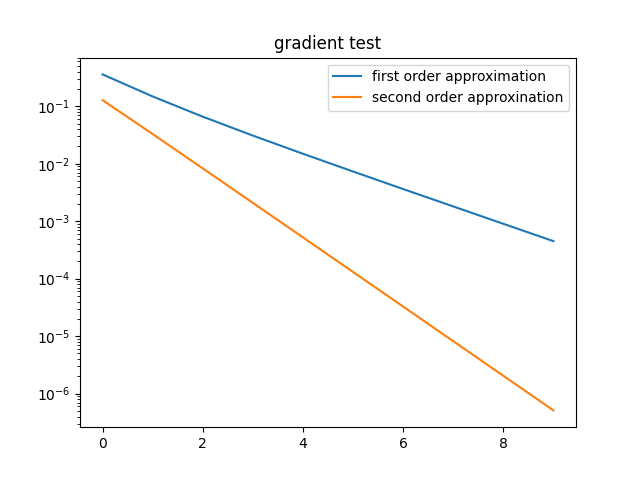
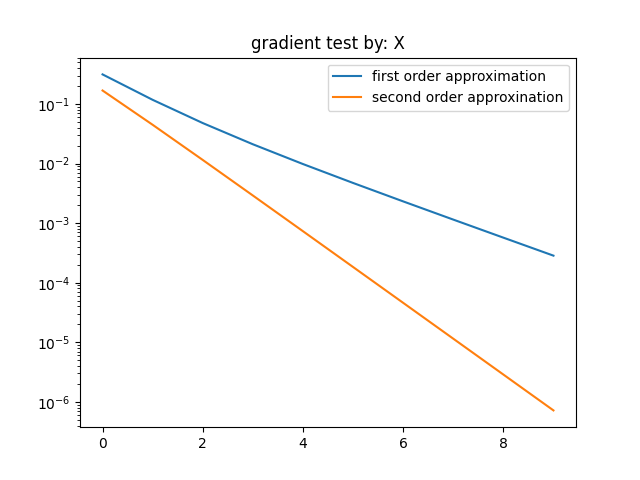
end of 6/7

diff --git a/util.py b/util.py
@@ -55,15 +55,10 @@ def soft_max_loss(X, W, C):
 def soft_max_regression_grad_by_theta(X, W, C):
     m = X.shape[1]
     Z = X.T @ W.T  # Compute logits
-    print(f"Z.shape:{Z.shape}")
-    # softmax = np.exp(
-    #     Z) / (np.sum(np.exp(X.T @ W[j, :]) for j in range(W.shape[0])))[:, None]
     softmax = stable_softmax(Z)
-    print(f"softmax.shape: {softmax.shape}")
-    dL_dZ = (softmax - C) / m
-    grad = X @ dL_dZ
-    print(f"grad.shape: {grad.shape}")
-    return grad
+    dL_dZ = (softmax - C) 
+    grad= (X @ dL_dZ).T
+    return grad / m
 
 # Softmax Gradient with respect to X
 
@@ -71,12 +66,34 @@ def soft_max_regression_grad_by_theta(X, W, C):
 def soft_max_regression_grad_by_x(X, W, C):
     m = X.shape[1]
     Z = X.T @ W.T  # Compute logits
-    # softmax = np.exp(
-    #     Z) / (np.sum(np.exp(X.T @ W[j, :]) for j in range(W.shape[0])))[:, None]
     softmax = stable_softmax(Z)
     dL_dZ = (softmax - C) / m
     dL_dX = W.T @ dL_dZ.T
     return dL_dX
+
+activation_function = np.tanh
+output_layer_function = soft_max_loss
+activation_function_derivative = tanh_derivative
+
+def f_standart_layer(X, W):
+    X = np.concatenate([X, np.ones((1, X.shape[1]))], axis=0)
+    print(f"X.shape: {X.shape}")
+    print(f"W.shape: {W.shape}")
+    return activation_function(W @ X)
+
+def Jac_f_by_x(X, W, V):
+    X = np.concatenate([X, np.ones((1, X.shape[1]))], axis=0)
+    Z = activation_function_derivative(W @ X)
+    A = (Z * V)
+    return (W.T @ A).T
+
+def Jac_f_by_theta(X, W, V):
+    X = np.concatenate([X, np.ones((1, X.shape[1]))], axis=0)
+
+
+    Z = activation_function_derivative(W @ X)
+    A = (Z * V)
+    return (A @ X.T).T
 
 
 def gradient_test(F, grad_F, X_shape, W_shape, C_shape, by='X'):
@@ -118,6 +135,43 @@ def gradient_test(F, grad_F, X_shape, W_shape, C_shape, by='X'):
     plt.legend()
     plt.show()
 
+def JacMv_test(F, JacMv, X_shape, W_shape, by='X'):
+    X_d, X_m = X_shape
+    W_d, W_nlabels = W_shape
+    X = np.random.rand(X_d, X_m)
+    W = np.random.rand(W_d, W_nlabels)
+    if by == 'X':
+        d0 = np.random.rand(X_d, X_m)
+    elif by == 'W':
+        d0 = np.random.rand(W_d, X_m)
+    eps0 = 0.5
+    F0 = F(X, W)
+    g0 = JacMv(X, W, d0)
+    y1 = []
+    y2 = []
+    for i in range(10):
+        epsilon = eps0 ** i
+        d = epsilon * d0
+        if by == 'X':
+            F1 = F(X + d, W)
+        elif by == 'W':
+            F1 = F(X, W + d)
+        F2 = np.dot(d.flatten(), g0.flatten())
+        # F1 - F0
+        # F1 - F0 - eps * d.T Grad(x)
+        y1.append(np.abs(F1 - F0))
+        y2.append(np.abs(F1 - F0 - F2))
+    print(y1)
+    print(y2)
+    xs = np.arange(0, 10)
+    plt.plot(xs, y1, label="first order approximation")
+    plt.plot(xs, y2, label="second order approxination")
+    plt.yscale('log')
+    plt.title('gradient test by: ' + by)
+    plt.legend()
+    plt.show()
+
+
 
 def jac_test(F, Jac_Mv):
     pass
@@ -126,7 +180,8 @@ def jac_test(F, Jac_Mv):
 def SGD_minimizer(grad_F, x0, labeled_data, mini_batch_size, plot=False, learning_rate=0.1, iterations=100, tolerance=1e-3):
     x = x0
     np.random.shuffle(labeled_data)
-    mini_batches = split_into_batches(labeled_data, mini_batch_size)
+
+    mini_batches = split_into_batches(labeled_data[:, :-1], labeled_data[:, -1], mini_batch_size)
     mini_batch_index = 0
     data = labeled_data[:, :-1]
     labels = labeled_data[:, -1].reshape(-1, 1)
@@ -179,5 +234,9 @@ def test_soft_max_loss():
 
 if __name__ == "__main__":
     # test_soft_max_loss()
-    gradient_test(soft_max_loss, soft_max_regression_grad_by_theta,
-                  (30, 100), (10, 30), (100, 10), by='W')
+    # gradient_test(soft_max_loss, soft_max_regression_grad_by_x,
+    #             (30, 100), (10, 30), (100, 10), by='X')
+    # gradient_test(soft_max_loss, soft_max_regression_grad_by_theta,
+    #               (30, 100), (10, 30), (100, 10), by='W')
+    JacMv_test(f_standart_layer, Jac_f_by_theta,
+                (30, 100), (10, 31), by='W')

diff --git a/standard_neural_net.py b/standard_neural_net.py
@@ -61,13 +61,7 @@ class ff_standard_neural_network:
                 # update weights
                 pass
 
-    def Jac_f_by_x_transposed(X, W, V):
-        X = np.concatenate([X, np.ones((1, X.shape[1]))], axis=0)
-        return W.T @ (activation_function_derivative(W @ X) * V)
 
-    def Jac_f_by_theta_transposed(X, W, V):
-        X = np.concatenate([X, np.ones((1, X.shape[1]))], axis=0)
-        return (activation_function_derivative(W @ X) * V) @ X.T
 
     
 
@@ -95,19 +89,12 @@ class ff_standard_neural_network:
         grads_Ws= [grad]
         back_prop_grad = loss_function_grad_x(self.activations[-2], self.weights[-1], C)
 
-        #TODO: make sure which Ws and Xs are used for the loss function gradient
-
-
-        for X, weights in reversed(zip(self.activations[:-1], self.weights)):  # TODO: fix loop condition
-            z = self.weights[i] @ np.concatenate(X, np.array[1])
-            z_next = self.weights[i+1] @ np.concatenate(X[i+1], np.array[1])
-            back_prop_grad = ff_standard_neural_network.J
-            (
-                self.weights, z, activation_function_derivative, back_prop_grad)
-            grad_theta_i = ff_standard_neural_network.Jac_f_by_theta(
-                self.weights[i+1].shape[1] - 1, self.weights[i+1].shape[0], X[i+1], z_next, activation_function_derivative, back_prop_grad)
-            grad = np.concatenate(grad, grad_theta_i)
-
+        for X, weights in reversed(zip(self.activations[:-1], self.weights)):
+            grad = util.Jac_f_by_theta(X, weights, back_prop_grad)
+            grads_Ws.insert(0, grad)
+            back_prop_grad = util.Jac_f_by_x(X, weights, back_prop_grad)
+        
+        return grads_Ws
 
 # Sample test input to initialize ff_standard_neural_network class
 

diff --git a/data_utils.py b/data_utils.py
@@ -12,7 +12,7 @@ def load_matlab_data_np_arrays(mat_file_path):
 
 
 def read_iris_dataset():
-    iris_df = pd.read_csv("IRIS.csv")
+    iris_df = pd.read_csv("datasets//IRIS.csv")
     iris_df["species"].replace("Iris-virginica", 1, inplace=True)
     iris_df["species"].replace("Iris-versicolor", 2, inplace=True)
     iris_df["species"].replace("Iris-setosa", 3, inplace=True)

diff --git a/main_script.py b/main_script.py
@@ -10,3 +10,4 @@ def minimize_iris_LS():
     print(util.SGD_minimizer(util.LS_grad, np.ones((4, 1)), labeld_data, len(
         labeld_data) // 10, plot=True, learning_rate=0.00072, tolerance=0.001))
 
+minimize_iris_LS()
